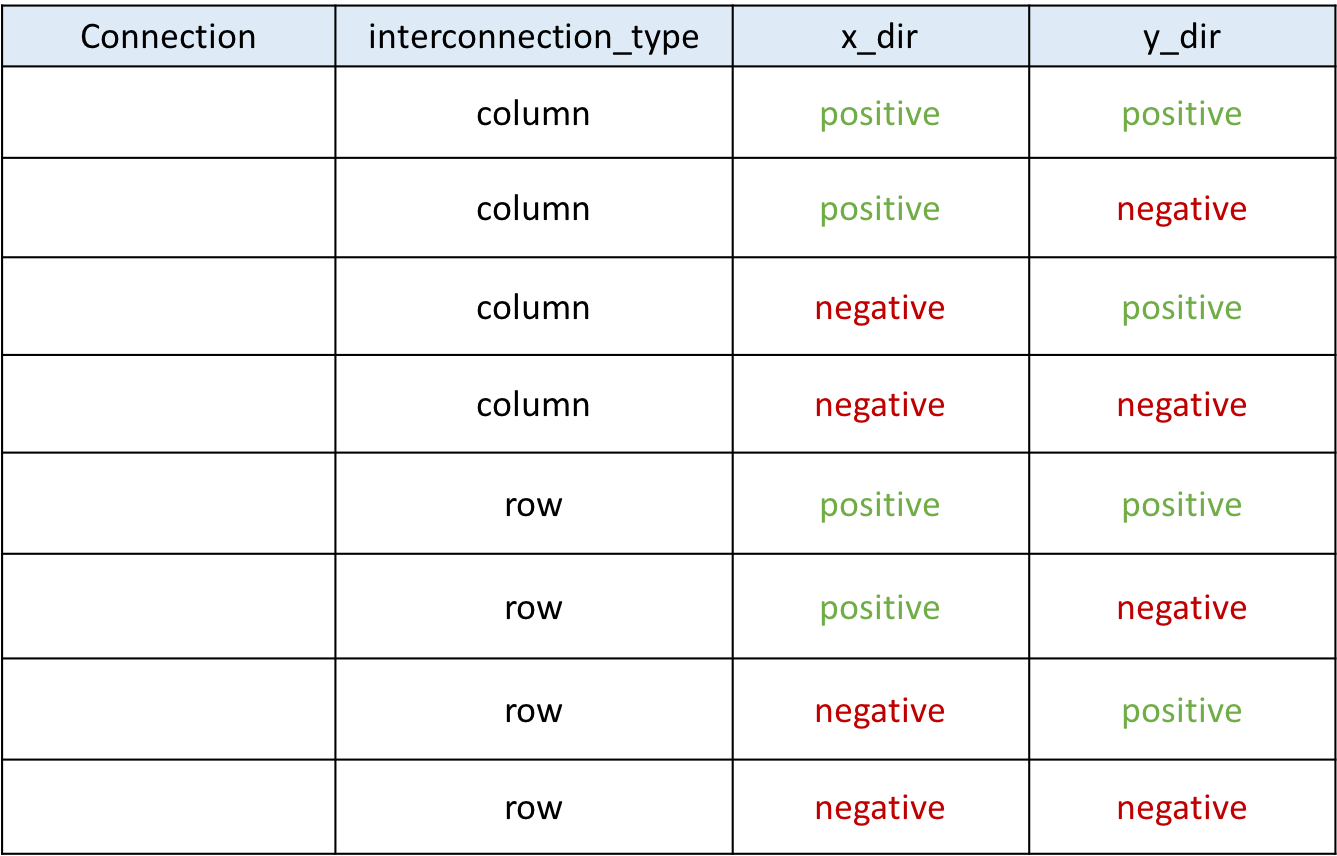
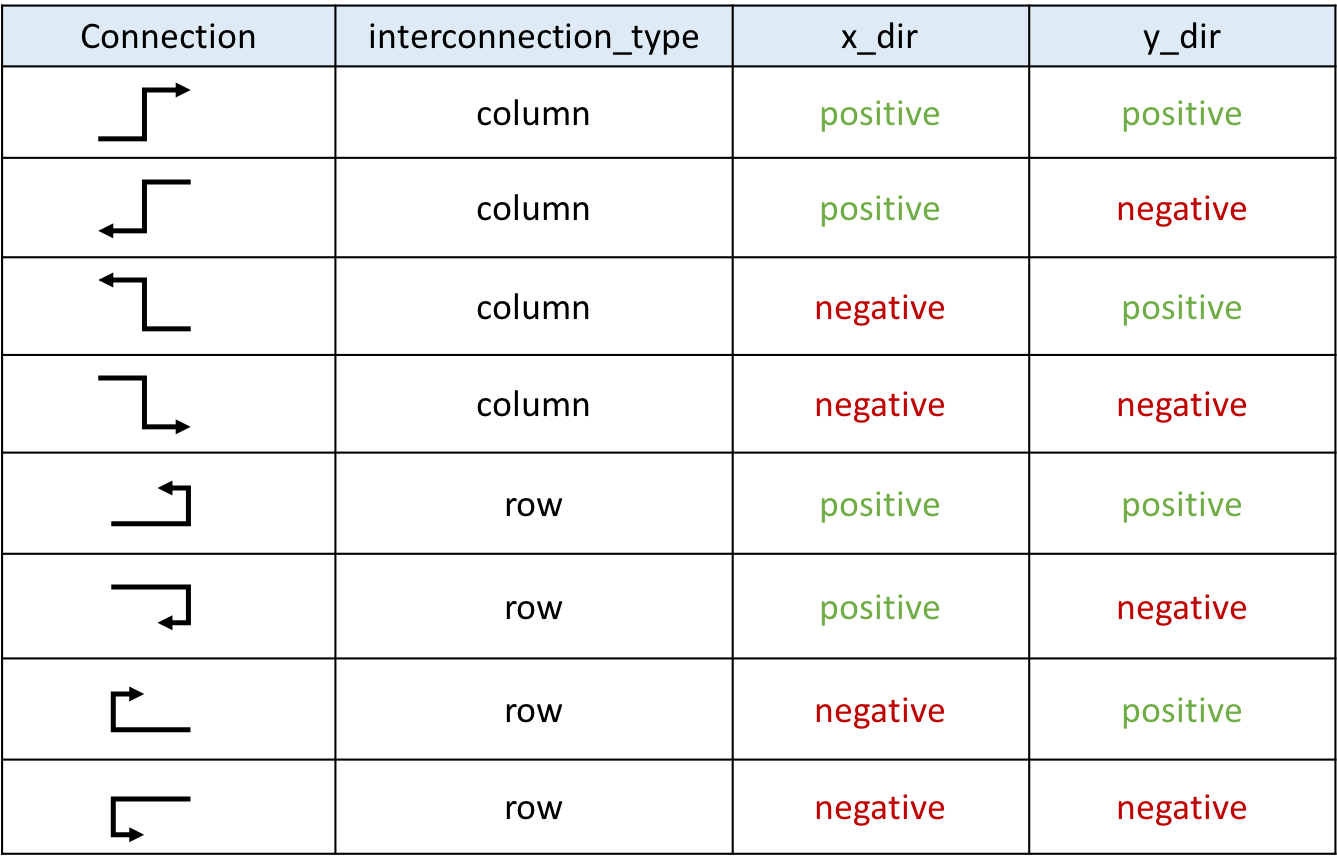
Doc fixing

diff --git a/docs/source/arch_lang/interconnect.rst b/docs/source/arch_lang/interconnect.rst
@@ -26,7 +26,9 @@ Our extension include three more options:
     <direct name="string" from_pin="string" to_pin="string" x_offset="int" y_offset="int" z_offset="int" switch_name="string" interconnection_type="string" x_dir="string" y_dir="string"/>
   </directlist>
 
-* **interconnection_type**: [``NONE`` | ``column`` | ``row``], specifies if it applies on a column or a row ot if it doesn't apply. This option is optional and do not need to be set for any direct connection in the direclist. If this option is set *x_dir* and *y_dir* are required.
+.. note:: these options are optional. However, if *interconnection_type* is set *x_dir* and *y_dir* are required.
+
+* **interconnection_type**: [``NONE`` | ``column`` | ``row``], specifies if it applies on a column or a row ot if it doesn't apply.
 
 * **x_dir**: [``positive`` | ``negative``], specifies if the next cell to connect has a bigger or lower x value. Considering a coordinate system where (0,0) is the origin at the bottom left and *x* and *y* are positives: 
 
@@ -50,7 +52,7 @@ Our extension include three more options:
 
 		* interconnection_type="row": a row will be connected on an **above** row, if it exists.
 
-	* y_dir="positive": 
+	* y_dir="negative": 
 
 		* interconnection_type="column": the **top** cell of a column will be connected to the next column **bottom** cell, if it exists.
 
@@ -67,13 +69,13 @@ For this example, we will study a scan-chain implementation.The description coul
     <direct name="scff_chain" from_pin="clb.sc_out" to_pin="clb.sc_in" x_offset="0" y_offset="-1" z_offset="0" interconnection_type="column" x_dir="positive" y_dir="positive"/>
   </directlist>
 
-:numref:`fig_p2p_expl` is the graphical representation of the above scan-chain description on a 4x4 FPGA.
+:numref:`fig_p2p_exple` is the graphical representation of the above scan-chain description on a 4x4 FPGA.
 
-.. _fig_p2p_expl:
+.. _fig_p2p_exple:
 
 .. figure:: ./figures/point2point_example.png
-   :scale: 100%
-   :alt: example of scan-chain implementation
+
+	An example of scan-chain implementation
 
 
 In this figure, the red arrows represent the initial direct connection. The green arrows represent the point to point connection to connect all the columns of CLB together.
@@ -85,8 +87,8 @@ A point to point connection can be applied in different ways than showed in the 
 
 :numref:`fig_p2p_trtable` provides all possible variable combination and the connection it will generate.
 
-.. _fig_p2p_expl:
+.. _fig_p2p_trtable:
 
 .. figure:: ./figures/point2point_truthtable.png
-   :scale: 100%
-   :alt: point to point truth table
+
+	Point to point truth table
